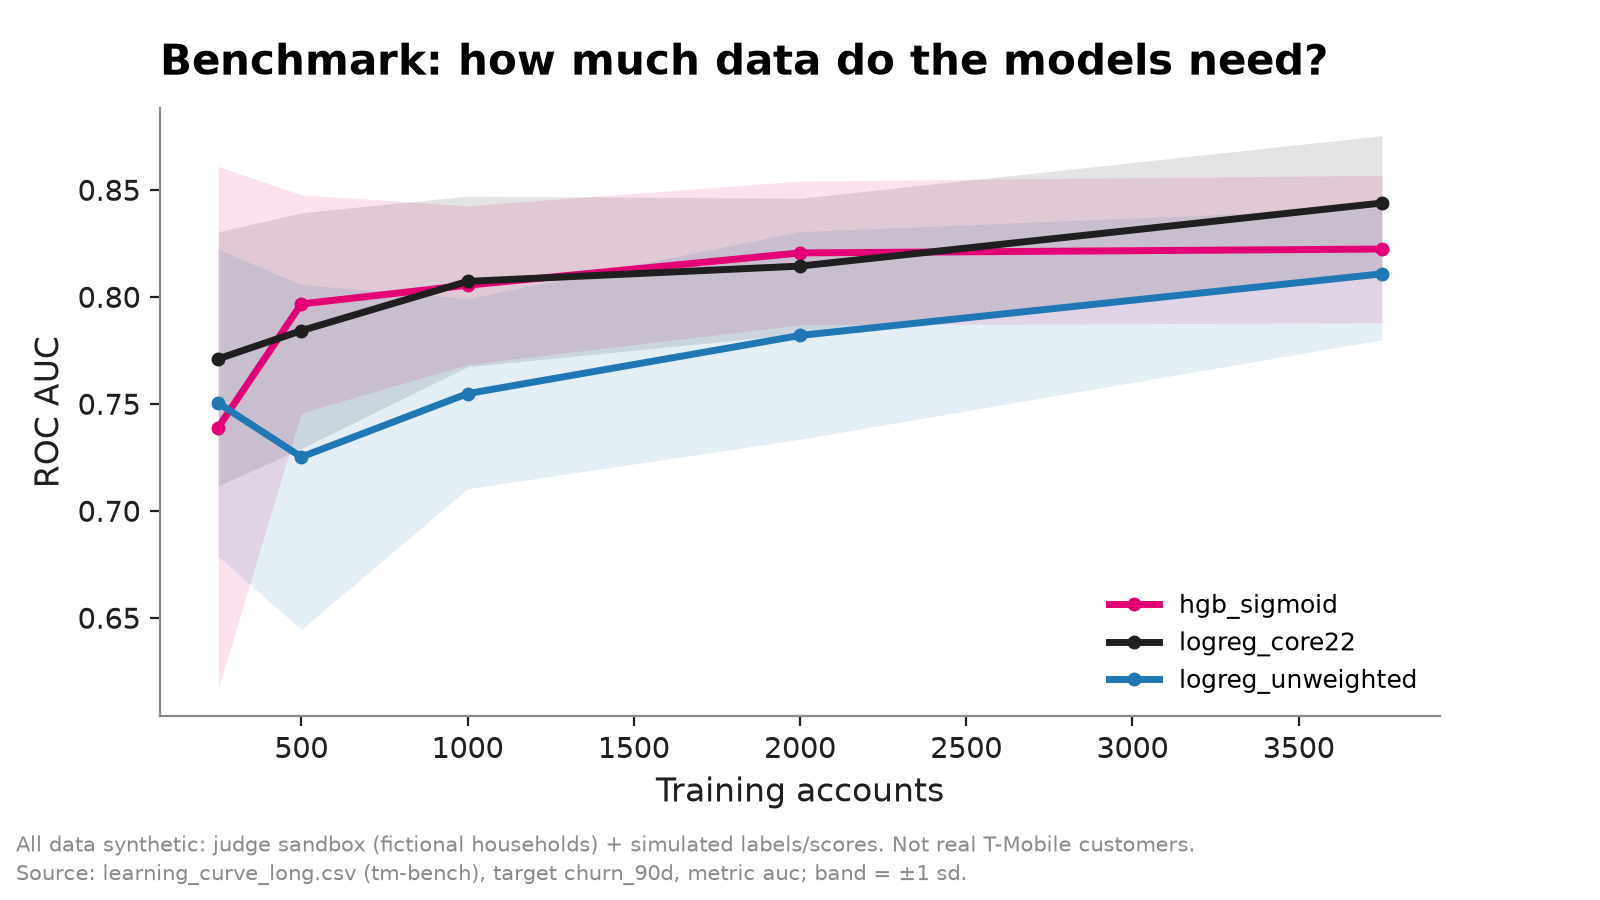
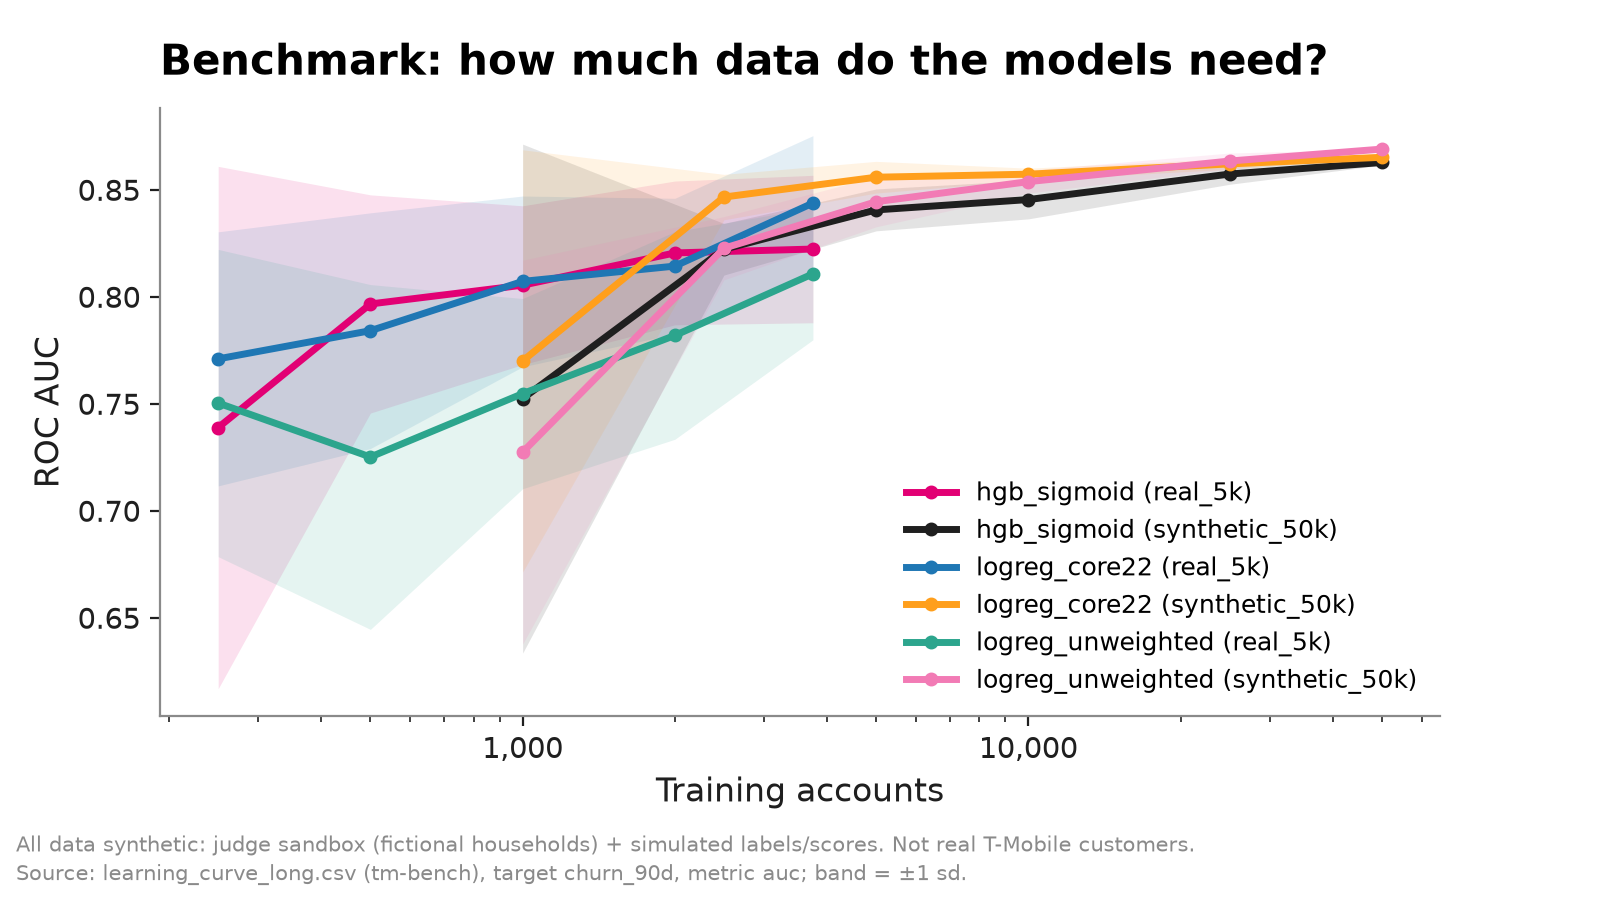
tm-ui: mark Model C charts provisional (small test split)

diff --git a/app/charts/make_charts.py b/app/charts/make_charts.py
@@ -294,7 +294,7 @@ def chart_calibration(df):
 import os  # noqa: E402
 MODEL_C_FORCE_PLACEHOLDER = os.environ.get("TM_MODELC_PLACEHOLDER") == "1"
 MODELB_PINK, MODELC_COL, MODELA_COL, RULE_COL = MAGENTA, "#1F5FAD", "#9A9A9A", "#3A3A3A"
-CIRC_NOTE = ("Simulated randomized trial on the test split: effects are grounded in our own save-rate assumptions "
+CIRC_NOTE = ("PROVISIONAL: test split too small to rank policies reliably; figures may change. Simulated randomized trial on the test split: effects are grounded in our own save-rate assumptions "
              "(partly circular), not measured lift.")
 POLICY_ORDER = ["Model B EV chooser", "Model C T-learner", "Offer to everyone", "3+ calls rule", "Random", "Do nothing",
                 "Oracle (reference)"]
@@ -377,7 +377,7 @@ def chart_qini():
     ax.xaxis.set_major_formatter(matplotlib.ticker.PercentFormatter(1.0))
     ax.set_xlabel("Share of test accounts targeted (each policy's own ranking)")
     ax.set_ylabel("Cumulative incremental saves\n(IPW estimate, simulated trial)")
-    ax.set_title("Who is persuadable? Incremental saves by share targeted")
+    ax.set_title("Who is persuadable? Incremental saves by share targeted (provisional)")
     ax.legend(frameon=False, loc="lower right", fontsize=9)
     f.subplots_adjust(left=0.11, right=0.97, top=0.88)
     save(f, "04_modelC_qini.png", esc(f"{CIRC_NOTE} Qini area = IPW, from uplift_auuc.csv. Source: {p.parent.name}/{p.name} (tm-offers)."))
@@ -445,7 +445,7 @@ def chart_policy():
     ax.set_xticks([v for v in ax.get_xticks() if lo - span * 0.04 <= v <= hi * 1.001])
     ax.xaxis.set_major_formatter(matplotlib.ticker.FuncFormatter(lambda v, _: _money(v, plus=False) if v else "$0"))
     ax.set_xlabel("Net value, 24-month margin minus offer cost (doubly-robust estimate)")
-    ax.set_title("Targeted offers beat blanket policies")
+    ax.set_title("Targeted offers vs blanket policies (provisional)")
     from matplotlib.patches import Patch
     ax.legend(handles=[Patch(color="#7A7A7A", label="Retention only"), Patch(color="#7A7A7A", alpha=0.35, label="With upsell")],
               frameon=False, loc="lower left", fontsize=8, handlelength=1.2, borderaxespad=0.2)
